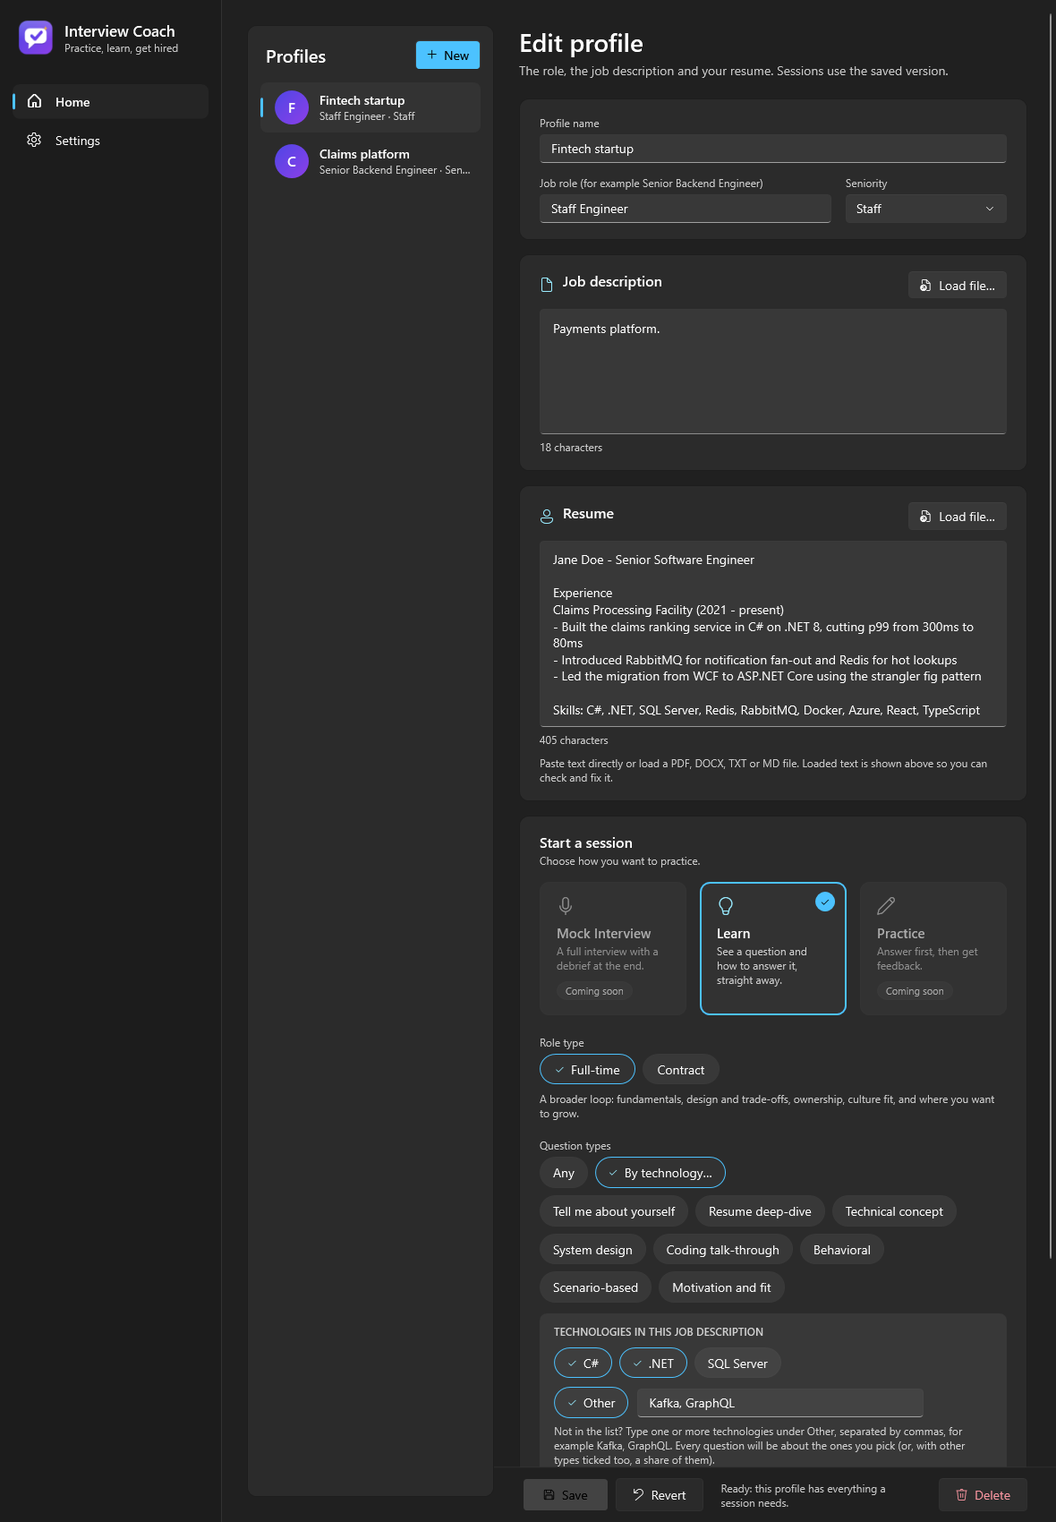
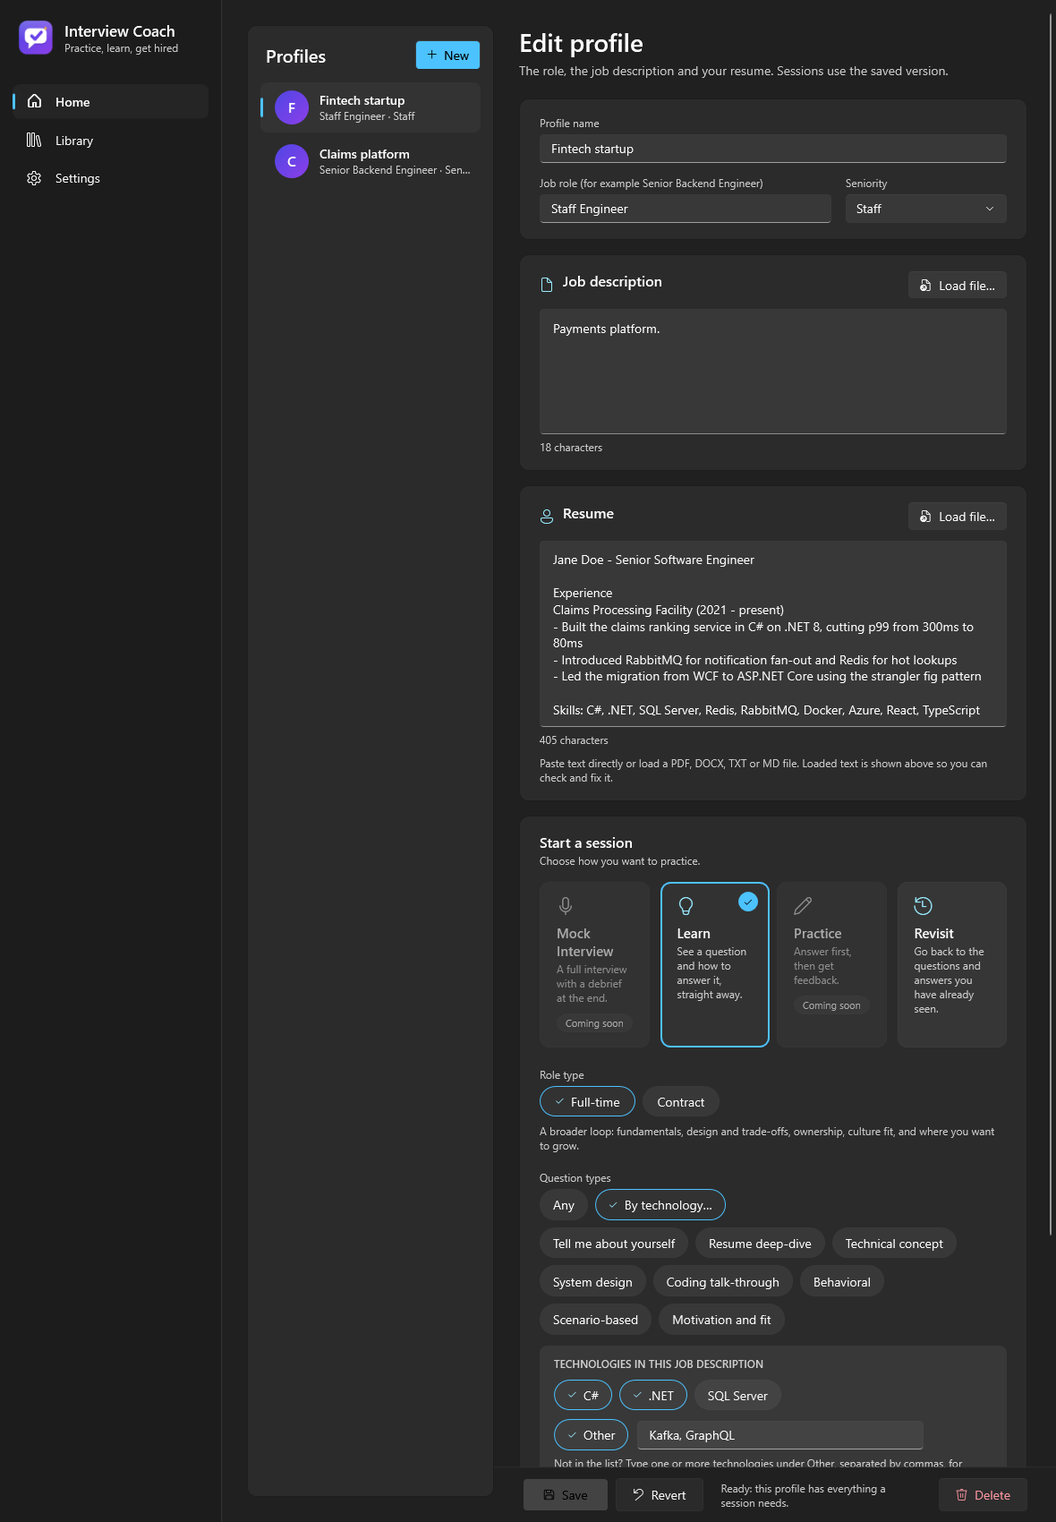
docs: describe batches, question examples and the Library
README: a Library section with screenshots, the batch question flow, question_batch.md, the new table, and counts (571 tests). SPEC section 14 and the handoff (section 16) record the decisions taken on the open question-quality proposals (one batch call of ten instead of single questions; scenario style inside the batch; no job-description grounding for bank questions and why), what the second log window showed, the Library design (schema, uniqueness, carry-over migration, where entries are recorded, best-effort rule), its limits, and the screenshot harness fix. CLAUDE.md gains the rule that every question type needs an example of the right length.

diff --git a/docs/HANDOFF.md b/docs/HANDOFF.md
@@ -31,7 +31,7 @@ background preparation of the next question; the technology bank (saved technica
 and seniority); By technology with an Other box; interviewer-style question length rules; full-time or contract role type with two
 extra question types; scroll-wheel behaviour on Home; app icon; a full visual redesign.
 
-Test status: **503 tests passing** (Core 219, Infrastructure 129, App 155). The last full verification was done with
+Test status: **571 tests passing** (Core 234, Infrastructure 147, App 190). The last full verification was done with
 `-c Release` because the user had the Debug build running (see section 2).
 
 **Version control.** The folder is a git repository (branch `main`). History is written to be read; see "Commit conventions" in `README.md`.
@@ -184,8 +184,8 @@ screen uses for "Interviewers typically expect..."; `(none)` only for an unknown
 - `JdTechnologies`: Fingerprint (SHA-256 of the whitespace-normalised JD), TechnologiesJson, CreatedAt.
 - Migrations: `InitialCreate`, `AddTechBank`.
 
-Not stored yet (spec section 7 entities for later milestones): Session, Turn, QuestionThread, PracticeItem, Attempt. **Learn sessions are
-not saved**; the History screen (milestone 7) will need writes added to the engines.
+Not stored yet (spec section 7 entities for later milestones): Session, Turn, QuestionThread, PracticeItem, Attempt. Learn questions and
+answers **are** kept since the Library was added (`LearnHistory`, section 16); mock interviews and practice attempts are not built yet.
 
 **`settings.json`** (enums written as names): Provider, AnthropicApiKey, OpenAiApiKey, OpenAiBaseUrl, OpenRouterApiKey, the five model ids, the five OpenRouter model ids (`OpenRouter*Model`), ThinkingEffort,
 PromptCaching, **EmploymentType**, ReuseGeneralAnswers, SpeechToText, TextToSpeech, AzureSpeechKey, AzureSpeechRegion, Voice,
@@ -315,7 +315,7 @@ cache read about 0.1x, cache write about 1.25x; the user's balance drop was cons
 
 ## 10. Tests
 
-503 tests: Core 219, Infrastructure 129, App 155.
+571 tests: Core 234, Infrastructure 147, App 190.
 
 - **Core.Tests**: prompt rendering, engine behaviour (`LearnEngineTests`, `LearnEngineBankTests`, `LearnEngineTechnologyTests`,
   `EmploymentTypeTests`), bank service, answer length, question types, text helpers. Helpers in `TestDoubles.cs`:
@@ -342,7 +342,7 @@ cache read about 0.1x, cache write about 1.25x; the user's balance drop was cons
    Interfaces, fakes and settings fields already exist.
 3. **Milestone 6, Mock Interview**: planner, interviewer loop with time pacing and end conditions, thread building, parallel coaching (max 3),
    debrief, Markdown export. Add `{{EMPLOYMENT_TYPE}}` to `planner.md`, `interviewer.md` and `debrief.md` and make the round type aware of it.
-4. **Milestone 7, History and polish**: History screen, resume unfinished mocks, error banners, shortcuts. Learn session persistence.
+4. **Milestone 7, History and polish**: the Library of Learn questions is done (section 16); still to do: history of mock interviews, resume unfinished mocks, error banners, shortcuts.
 5. Known limits and ideas not done: technology questions are technical-concept style only; the coach is not cached when set to Haiku
    (fixed part is below Haiku's minimum cache size); no structured-output (JSON schema) mode is used; no streaming of the answer as it is
    written (would make the first question feel instant, needs partial-JSON parsing); no installer or packaging; no localisation; no
@@ -497,3 +497,52 @@ Conclusions and what was changed:
 6. **Speed as the user sees it.** First question: about 2.6 s generation plus 6.5 s coach, roughly 9 to 10 s. After that prefetch hides it if the
    user spends 10 s or more reading; clicking Next within seconds (as at 17:54) shows the wait. Saved bank questions with saved answers are instant.
    JSON handling was reliable: 1 repair retry in 70 calls (a Haiku reply, earlier in the day), and Gemini's fenced ```json replies parsed fine.
+
+---
+
+## 16. Second OpenRouter log, question batches and the Library
+
+**What the second log window showed** (about 33 more calls, 2 October 2026, Haiku via OpenRouter for questions, GPT-5 Mini for the coach):
+questions took 1.1 to 3.0 s (the first cold one 3.0 s), general coach answers 3.8 to 8.6 s, tailored (resume) answers about 6.7 k input tokens,
+6.2 to 8.6 s and 190 to 220 words. One GPT-5 Mini reply was invalid JSON (1 in about 28 coach calls) and the repair retry fixed it for 4 s more.
+The 6 technology questions all began "What's the difference between", and 5 of 6 questions of the other types (resume, design, engagement) were 24 to
+48 words with a second ask, against a rule of one short question. The technical type has examples in its prompt and obeys; the others had none
+(and the engagement example itself had two asks, which the model copied).
+
+**Decisions taken on the proposals in section 15 item 5:**
+
+1. *Common over obscure, and varied form*: done in two places. The single-question prompt now says so; and the bank asks for a **batch** (below).
+2. *A seed of common questions per technology*: done as a model-written batch instead of a hand-made list, because the technologies come from job
+   descriptions and cannot be listed in advance. When the saved questions for a technology and level have all been seen (including the first
+   time), `TechBank.NextQuestionAsync` makes one `question_batch.md` call for 10 questions (`BatchSize`), saves them all, serves the first, and the
+   rest come free. Batch prompt rules: most common first; at most two from one area; at most three "What's the difference between"; at least three
+   situational; 6 to 18 words; one ask; nothing already saved or asked (the avoid list is de-duplicated). On failure or no new questions it falls
+   back to the old single question. Cost: about 1.2 k input and 450 output tokens once per ten questions, less per question than ten single calls.
+3. *Scenario style and the job description*: scenario-style questions ("What happens if...") are part of every batch. Job-description grounding is
+   deliberately **not** added to bank questions, because the bank is keyed by technology and level so it survives resume and job-description edits;
+   job-description scenarios are what the existing Scenario-based type is for.
+4. *Examples for every type*: `question_generator.md` has examples and word limits for resume deep-dive, system design and engagement, and a
+   stronger one-ask rule. Not yet measured live: whether Haiku now keeps these to one short sentence; check the next debug log.
+
+**The Library.** Table `LearnHistory` (migration `AddLearnHistory`): QuestionKey (normalized), Question, QuestionType, Technology, Seniority, Source,
+IsFollowUp, ParentQuestion and ParentKey, IsGeneral, ProfileName (empty for general answers), CoachJson, FirstSeenAt, LastSeenAt, TimesSeen. Unique on
+(QuestionKey, ParentKey, IsGeneral, ProfileName), so the same question seen again updates its row, and a general and a tailored answer, or a follow-up
+under two parents, are separate. The migration also copies bank questions that have a saved answer into the table (`INSERT OR IGNORE ... SELECT`,
+preferring the answer saved with AnswerWords = -1, keeping the original dates); a test builds a database at the previous migration and checks it.
+
+- Recording: `LearnEngine.RecordShownAsync` (best effort, exceptions swallowed so it can never interrupt practice) runs when an item and its answer are
+  on screen, in three places: a prefetched question when it is shown (not while it is prepared), a saved bank question with a saved answer, and after
+  `LoadAnswerAsync` (fresh questions, follow-ups, tailored answers, retries). `Back` does not record. `ILearnHistory` is the contract;
+  `LearnHistoryRepository` (SQLite), `InMemoryLearnHistory` and `RoutingLearnHistory` (Demo mode) implement it.
+- Screen: `LibraryViewModel` and `LibraryView`. Type chips are view-model bound (`LibraryTypeFilter`, single choice done in the view model, no radio
+  groups); search matches question, technology, type label and answer text; sorts are newest (last seen), oldest (first seen), question, type; the
+  detail pane reuses `CoachOutputViewModel`/`CoachOutputView` with the answer passed through `CoachOutput.ForLearning()` so old entries lose their
+  warm-up. A follow-up button opens that follow-up's saved entry (clearing the filter if it was hidden) or says there is none. Stored times are UTC and
+  shown local (today, yesterday, or a date). The list is a `ListBox` in a card that does not scroll, with the detail pane in its own `ScrollViewer`, so
+  the mouse-wheel trap in section 9 does not apply.
+- Navigation: the **Revisit** card on Home (a `ModeCard` with a command, enabled; the page is recreated on return so its checked look is harmless)
+  and a **Library** item in the sidebar, both handled in `MainViewModel`, which reads the library fresh each time it is opened.
+- Limits and ideas: only questions seen from now on are recorded (plus the carried-over bank questions); there is no export, no "practise this
+  again" button and no tags; "Remove" does not remove the question from the bank; the 4-card mode row on Home wraps "Mock Interview" onto two lines.
+- Screenshots: `VisualSnapshots` renders the library (`6-library-*`). Its capture was changed to paint the window at its own scale; the earlier
+  brush stretched the bounds of every descendant (including scrolled-away content) into the picture and rescaled it.

diff --git a/README.md b/README.md
@@ -12,7 +12,7 @@
 <p align="center">
   <img alt=".NET 10" src="https://img.shields.io/badge/.NET-10-512BD4">
   <img alt="WPF" src="https://img.shields.io/badge/UI-WPF%20%28MVVM%29-0078D4">
-  <img alt="Tests" src="https://img.shields.io/badge/tests-503%20passing-2EA043">
+  <img alt="Tests" src="https://img.shields.io/badge/tests-571%20passing-2EA043">
   <img alt="Platform" src="https://img.shields.io/badge/platform-Windows%2010%2F11-lightgrey">
   <img alt="Status" src="https://img.shields.io/badge/status-Learn%20mode%20complete-blue">
 </p>
@@ -61,7 +61,8 @@ Things that make it more than a question generator:
 | **Question types** (eight per interview) | Tell me about yourself, resume deep-dive, technical concept, system design, coding talk-through, behavioral, scenario-based, plus one of *Motivation and fit* (full-time) or *Availability and engagement* (contract). |
 | **Full-time or contract** | The two interview styles differ, so the role type changes which questions are offered and how they are written and coached. |
 | **By technology** | Reads the technologies out of the job description (or lets you type your own under **Other**) and asks questions about the ones you pick. |
-| **Saved technical questions** | Technical-concept questions and their general answers are saved per technology and seniority, so repeats cost nothing and survive edits to your resume. |
+| **Saved technical questions** | Technical-concept questions and their general answers are saved per technology and seniority, so repeats cost nothing and survive edits to your resume. When a technology runs out of saved questions the model writes ten common ones in a single call (most common first, spread over different areas, mixed phrasing) instead of one at a time. |
+| **Library (Revisit)** | Every question and answer you see is kept, so you can go back to it: filter by question type, search, sort, reopen the full answer, remove an entry. |
 | **Tailor to my resume** | Turn any general answer into one built from your own experience, on demand. |
 | **Answer length control** | Short, Medium, Long or a custom word count. By default the model aims for the same range the screen shows. |
 | **Interviewer-style phrasing** | Technical questions are short and direct ("What's the difference between checked and unchecked exceptions?"), not essay prompts. |
@@ -85,6 +86,12 @@ Rendered from the real views by the repository's own snapshot test, in Demo mode
 |---|---|
 | <img src="docs/images/learn-light.png" alt="Learn, light"> | <img src="docs/images/learn-dark.png" alt="Learn, dark"> |
 
+**Library: go back to every question and answer you have seen**
+
+| Light | Dark |
+|---|---|
+| <img src="docs/images/library-light.png" alt="Library, light"> | <img src="docs/images/library-dark.png" alt="Library, dark"> |
+
 **Settings** (Anthropic, and OpenRouter with the model browser)
 
 <img src="docs/images/settings-light.png" alt="Settings, light" width="400"> <img src="docs/images/settings-openrouter-dark.png" alt="Settings with OpenRouter, dark" width="400">
@@ -101,7 +108,7 @@ To regenerate them, see [Testing](#testing).
 | 4. Practice (typed): answer first, then get feedback; retry with comparison | Not started |
 | 5. Voice: speech to text and text to speech (Azure, OpenAI, Windows), mic in the composer | Not started (settings and fakes exist) |
 | 6. Mock Interview: planned interview, live interviewer, parallel coaching, debrief, Markdown export | Not started (prompts exist) |
-| 7. History and polish | Not started |
+| 7. History and polish | Partly: the **Library** of questions and answers you have seen is built (see below); a history of mock interviews and the final polish are not started |
 
 Beyond the original spec, these were added during the build: scenario questions, answer-length control, technology bank,
 By technology and Other, prompt caching and prefetching, thinking-effort setting, full-time or contract role type, an OpenRouter provider with a model browser, a new icon and
@@ -207,6 +214,23 @@ remembered), tick the ones you want, or tick **Other** and type names yourself (
 Questions are then about those technologies. On its own, By technology serves only technology questions; if one cannot be produced
 you see the error with **Retry** rather than a silent substitute.
 
+### Library (Revisit)
+
+Every question and answer Learn mode shows is kept, so you can come back to it. Open it from the **Revisit** card next to Practice on Home,
+or from **Library** in the sidebar.
+
+- **Filter by question type.** Chips for All and for each type you have seen, with a count on each.
+- **Search** the question, the technology, the question type and the answer text (every word must match).
+- **Sort** by newest, oldest, question (A to Z) or question type.
+- **Open an entry** to read its full answer again: what they are testing, the answer, its shape and the follow-ups. A follow-up you opened
+  before opens its own saved answer; one you never opened says so.
+- **Remove from library** deletes an entry (it is added back if you see that question again).
+- The same question seen again is one entry (it moves to the top and counts how many times you saw it). A general answer and one tailored to
+  your resume are separate entries.
+- Questions you already had saved as technical questions are carried over the first time the new version starts, so the library is not empty.
+  Anything seen before that and not saved cannot be recovered.
+- It is stored locally in `app.db` (table `LearnHistory`). In Demo mode it is kept in memory only.
+
 ### In a session
 
 - **Next question** moves on; the following question is prepared in the background, so it usually appears instantly.
@@ -282,6 +306,7 @@ build time and also embedded in Infrastructure as a fallback. You can edit the c
 | `question_generator.md` | Learn; the bank when it writes a question | Writes one question; per-type length rules; role-type rule; optional focus technology |
 | `coach.md` | Learn (later Practice and Mock) | Writes the answer, the shape, and the follow-ups |
 | `tech_tags.md` | By technology | Extracts up to eight technologies from a job description |
+| `question_batch.md` | The technology bank | Writes ten common questions about one technology in one call, for the bank |
 | `planner.md`, `interviewer.md`, `debrief.md` | Mock Interview (milestone 6) | Present, not yet used |
 
 `PromptRenderer` fills `{{VARIABLES}}` in a single pass, throws on a missing key, and renders a blank value as `(none)`.
@@ -330,21 +355,21 @@ on its OpenRouter page if that matters to you. The model list for the OpenRouter
 
 **Key fallbacks** when a Settings field is empty: `ANTHROPIC_API_KEY`, `OPENAI_API_KEY`, `OPENROUTER_API_KEY`, `AZURE_SPEECH_KEY`, `AZURE_SPEECH_REGION`.
 
-**Database tables:** `Profiles`, `TechQuestions`, `TechAnswers`, `JdTechnologies`. Learn sessions are not saved yet (History is milestone 7).
+**Database tables:** `Profiles`, `TechQuestions`, `TechAnswers`, `JdTechnologies`, `LearnHistory` (the Library).
 
 ## Testing
 
 ```bash
-dotnet test                                     # all 503 tests
+dotnet test                                     # all 571 tests
 dotnet test tests/InterviewCoach.Core.Tests     # one project
 dotnet build InterviewCoach.sln -c Release      # use this if the Debug exe is running (it locks its DLLs)
 ```
 
 | Project | Tests | Covers |
 |---|---|---|
-| `InterviewCoach.Core.Tests` | 219 | Prompt rendering, engine behaviour, the bank, answer lengths, question types, text helpers, role type |
-| `InterviewCoach.Infrastructure.Tests` | 129 | JSON parsing, LLM service (retry, cache split, options), settings (DPAPI round trip, no plaintext), SQLite repositories on real files, file extractors, prompt guards, Demo-mode isolation |
-| `InterviewCoach.App.Tests` | 155 | View models and **real WPF views** on a shared STA dispatcher; fails on any binding error |
+| `InterviewCoach.Core.Tests` | 234 | Prompt rendering, engine behaviour, the bank, answer lengths, question types, text helpers, role type |
+| `InterviewCoach.Infrastructure.Tests` | 147 | JSON parsing, LLM service (retry, cache split, options), settings (DPAPI round trip, no plaintext), SQLite repositories on real files, file extractors, prompt guards, Demo-mode isolation |
+| `InterviewCoach.App.Tests` | 190 | View models and **real WPF views** on a shared STA dispatcher; fails on any binding error |
 
 Test names are sentences that describe behaviour. Scripted test doubles (`ScriptedLlmService`, `BankScript`) let tests control exactly
 what the model "says", including delays and failures.

diff --git a/SPEC.md b/SPEC.md
@@ -829,3 +829,5 @@ The sections above are the original spec. These later decisions override them wh
 - **Answers start with the point.** `coach.md` no longer tells the model to "open the way people actually open", and its example answer no longer starts "Yeah, so": the model copied both (30 of 32 logged answers began "Sure. Short version:", "Yeah, so" or "Short answer:"). The rule now says to start with the substance and lists the openers not to use. In code, `CoachText.WithoutOpeningFiller` removes a warm-up from the start of a model answer (a filler word only when punctuation follows it, so "Right now", "Well-known" and "So far" are safe, and "Yes" and "No" are kept), and `CoachOutput.ForLearning()` applies it, together with the dropped feedback, to every answer Learn mode shows: fresh replies, general answers written for the bank, and answers saved before the change.
 - **No thinking effort for the fast roles on OpenRouter.** On OpenRouter the question generator and the interviewer send no thinking effort even when one is chosen, because an effort makes models that otherwise do not think start thinking (a logged Gemini 3.5 Flash Lite call spent about 500 of 550 output tokens thinking about a 25-token question). The coach, planner and debrief still send it. Anthropic and OpenAI-compatible are unchanged.
 - **Already-asked list.** The list of questions the generator is told to avoid no longer repeats a question that is both saved in the technology bank and asked in this session.
+- **Question quality: batches, examples, variety.** When every saved technical question for a technology and level has been seen, the technology bank asks the model for 10 new ones in a single call (`question_batch.md`, user message "Write the questions."): most commonly asked first, no more than two from one area, at most three starting "What's the difference between", at least three situational ("What happens if...", "How would you track down..."), 6 to 18 words each, none repeating what is saved or asked. All are saved, the first is shown and the rest come from the bank with no call. If the batch fails or adds nothing new, one question is written the old way. `question_generator.md` now gives an example of the right length for resume deep-dives (12 to 25 words), system design (up to 15 words) and engagement (one ask), says that a second request joined by "and" is a second question, asks the model to prefer commonly asked questions over obscure corners and to change the form when most earlier questions start the same way. The engagement example that itself contained two asks was replaced.
+- **Library (Revisit).** Home has a fourth mode card, "Revisit", beside Practice, and the sidebar has a "Library" item. Every question and answer Learn mode shows is kept (table `LearnHistory`), recorded once the answer is on screen: fresh questions, questions prepared in the background (only when shown), saved bank questions with their saved answers, follow-ups with their parent question, and tailored answers. An entry is the question plus the kind of answer (general, or for a profile) plus the parent question, so seeing it again updates it (last seen, times seen, newest answer) rather than adding a copy, and a general answer and a tailored one stay separate. The Library screen has a list with a search box (question, technology, type, answer text), question-type chips with counts (All plus the types present), a sort (newest, oldest, question A to Z, type), and a detail pane showing the full answer with the same cards as Learn mode; "Remove from library" deletes an entry after confirmation. Opening a follow-up inside an answer shows its own saved answer if there is one. Recording is best effort and never interrupts a session. The first run after upgrading copies the technical questions already saved in the bank (those with a saved answer) into the library. Demo mode uses an in-memory library. Answers saved with an opening warm-up are shown cleaned.

diff --git a/CLAUDE.md b/CLAUDE.md
@@ -8,7 +8,7 @@ architecture, decisions, measurements and traps. The code and tests are the trut
 
 ```
 dotnet run --project src/InterviewCoach.App
-dotnet test                                    # all tests (503 at last count)
+dotnet test                                    # all tests (571 at last count)
 dotnet build InterviewCoach.sln -c Release     # use -c Release when the user has the Debug exe running
 ```
 
@@ -28,6 +28,7 @@ Prompts are files in `src/InterviewCoach.App/Prompts/`.
 - **Prompts are cache-sensitive.** In `coach.md` the text before `=== THE CANDIDATE AND THE QUESTION ===` has no variables and that
   header appears exactly once; per-call values go after `</candidate_resume>`. `PromptLibraryTests` guards both. Read handoff section 4
   before editing a prompt, and record prompt changes in SPEC.md section 14.
+- **Every question type in `question_generator.md` needs an example of the right length.** Models obey examples and ignore bare limits (only the technical type had examples and only it was short).
 - **Never put an example opening in a prompt.** Models copy it word for word (every coach answer began "Sure. Short version:" after the prompt said to open that way). `CoachText.WithoutOpeningFiller` is the safety net.
 - **Do not use `RadioButton` groups** for choices (state is shared across view instances); bind to view model properties.
 - **Styles on themed controls need `BasedOn`; custom templates need an explicit `Foreground`.** Colours come from Fluent theme
